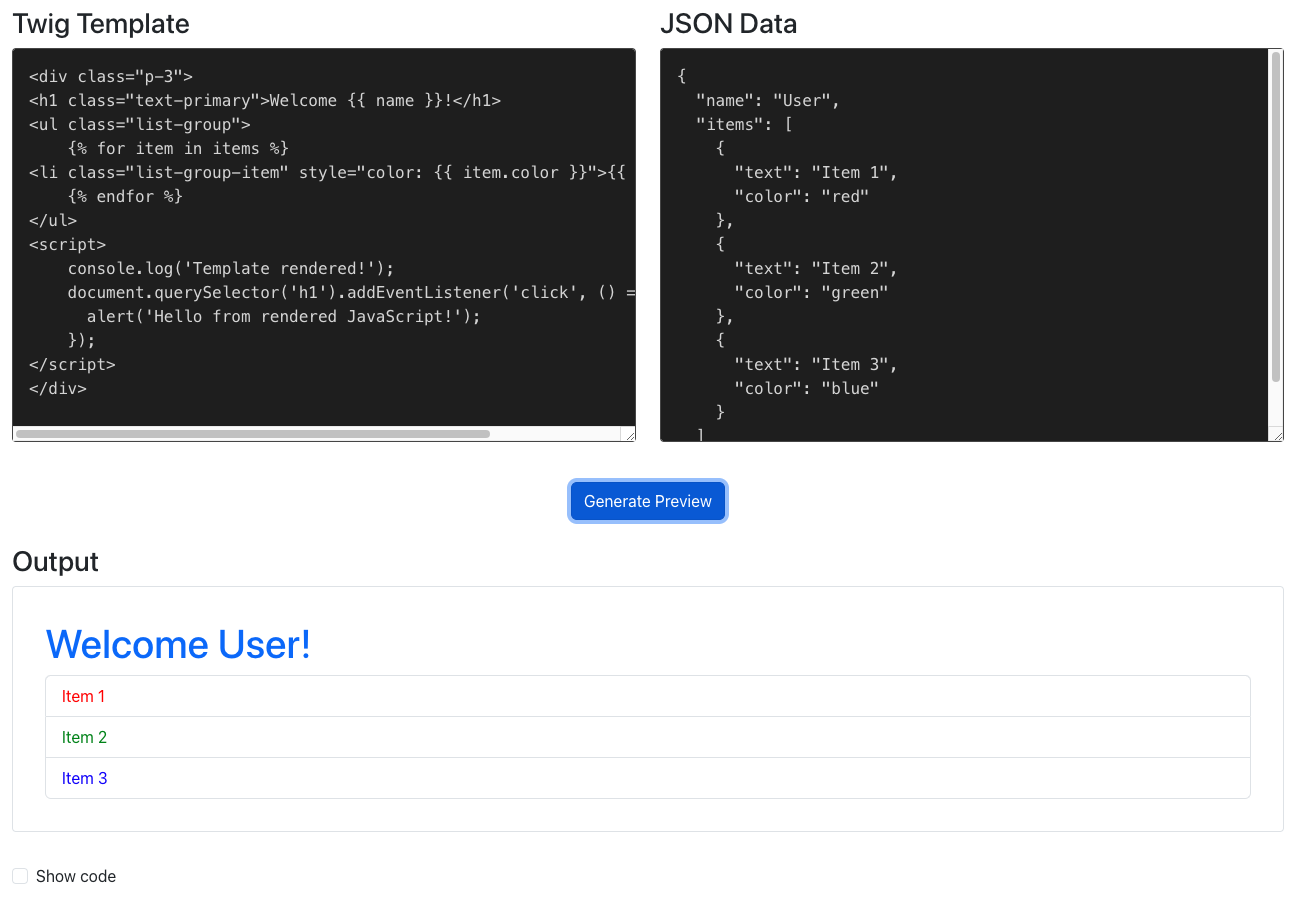
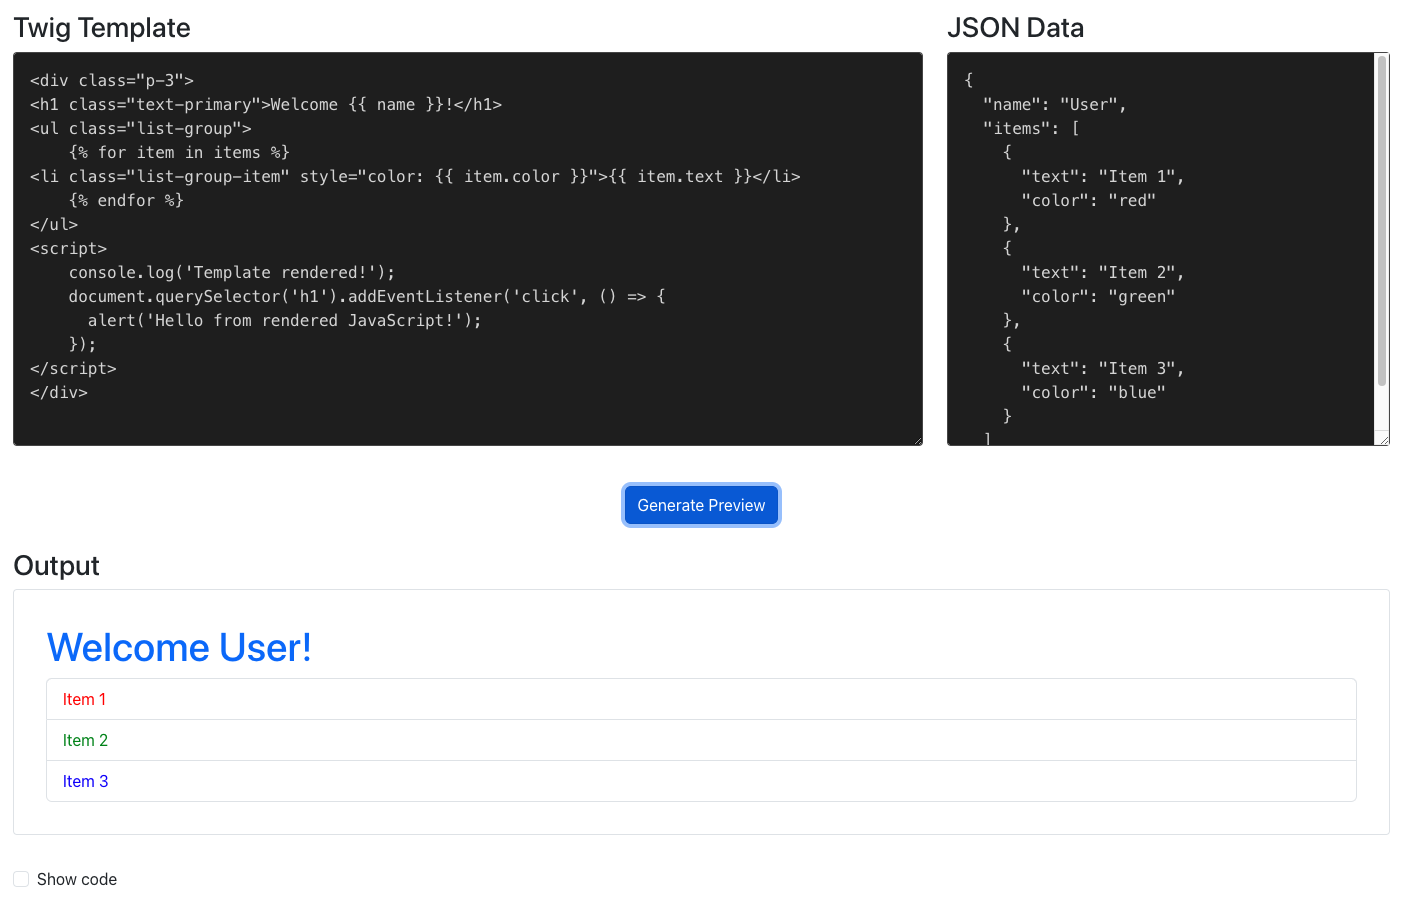
Update readme

diff --git a/src/components/TwigRenderer.js b/src/components/TwigRenderer.js
@@ -72,7 +72,7 @@ function TwigRenderer() {
   return (
     <div className="py-4">
       <div className="row mb-4">
-        <div className="col-md-6">
+        <div className="col-md-8">
           <h3>Twig Template</h3>
           <textarea
             rows={15}
@@ -96,7 +96,7 @@ function TwigRenderer() {
             }}
           />
         </div>
-        <div className="col-md-6">
+        <div className="col-md-4">
           <h3>JSON Data</h3>
           <textarea
           rows={15}

diff --git a/src/App.js b/src/App.js
@@ -6,7 +6,7 @@ function App() {
   return (
     <div className="App">
       <header className="App-header">
-        <h1>Twig Renderer</h1>
+        <h1>Preview Twig Template</h1>
       </header>
       <div className="content">
         <TwigRenderer />

diff --git a/README.md b/README.md
@@ -1,4 +1,4 @@
-# Twig Preview App using React
+# Preview Twig Template app using React + Bootstrap
 
 | ![Twig Preview App](./screenshots/React_Twig_Preview_App.png) |
 |:------------------------------------------------:|
